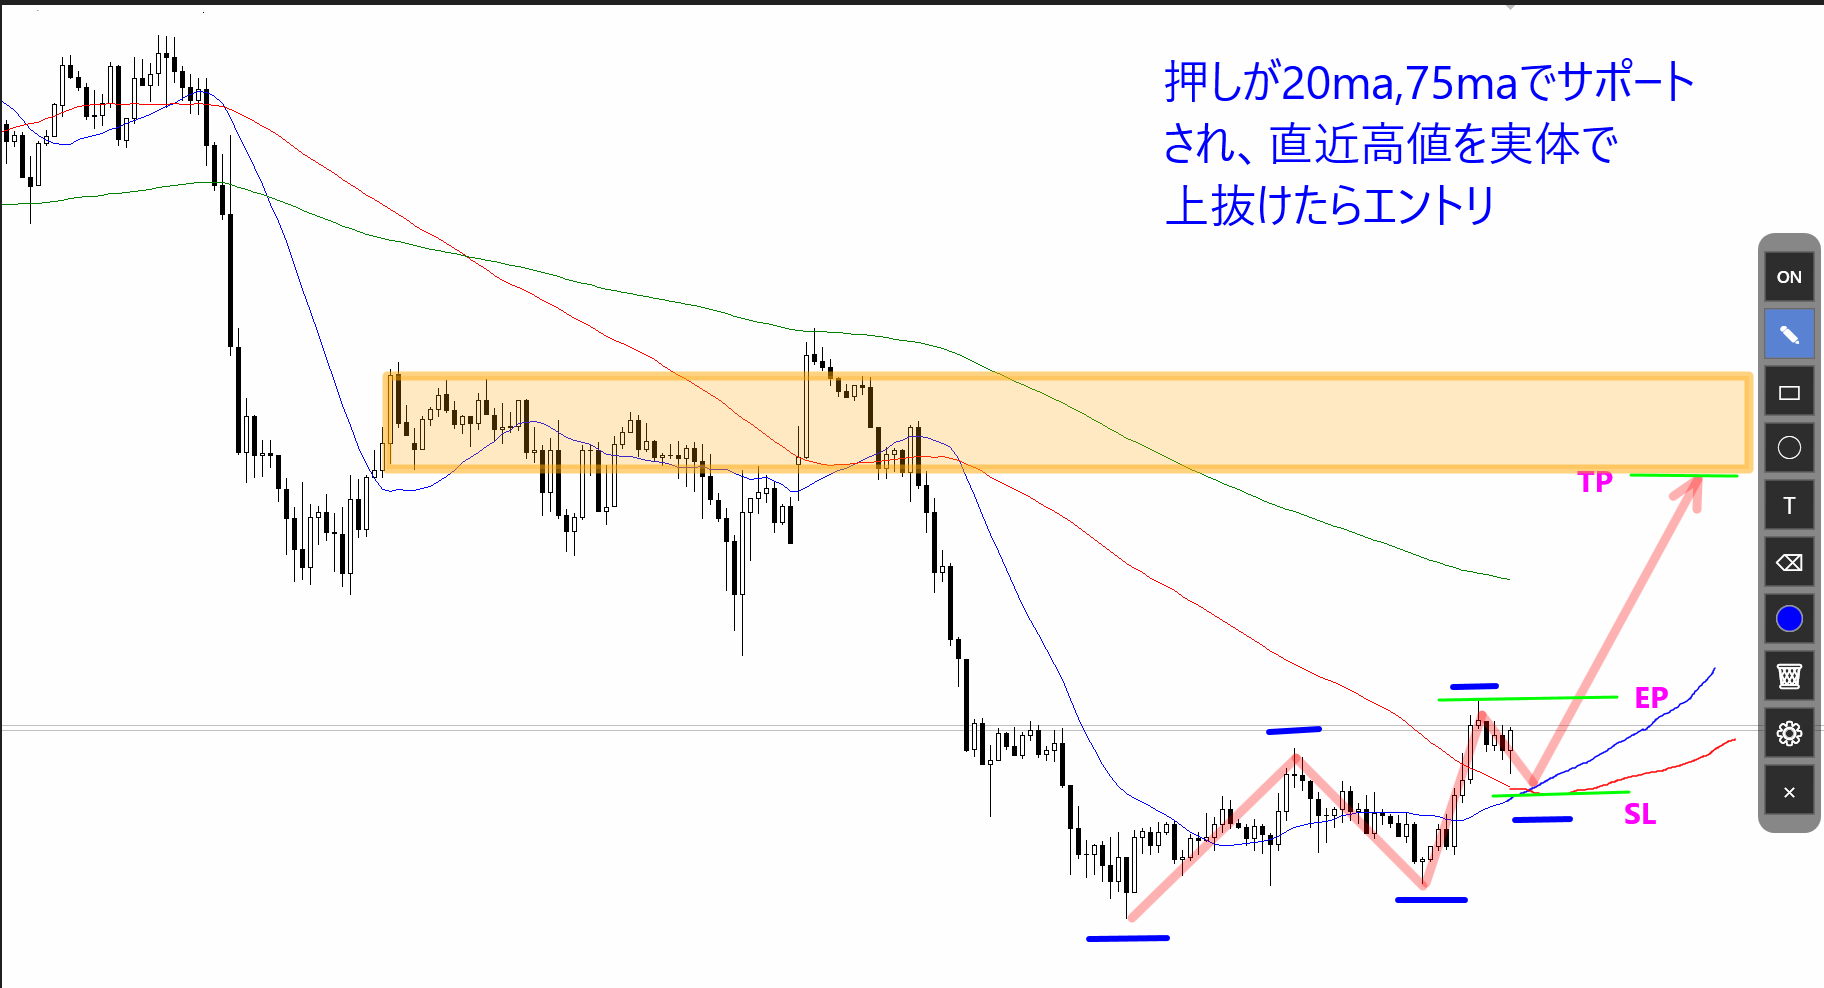
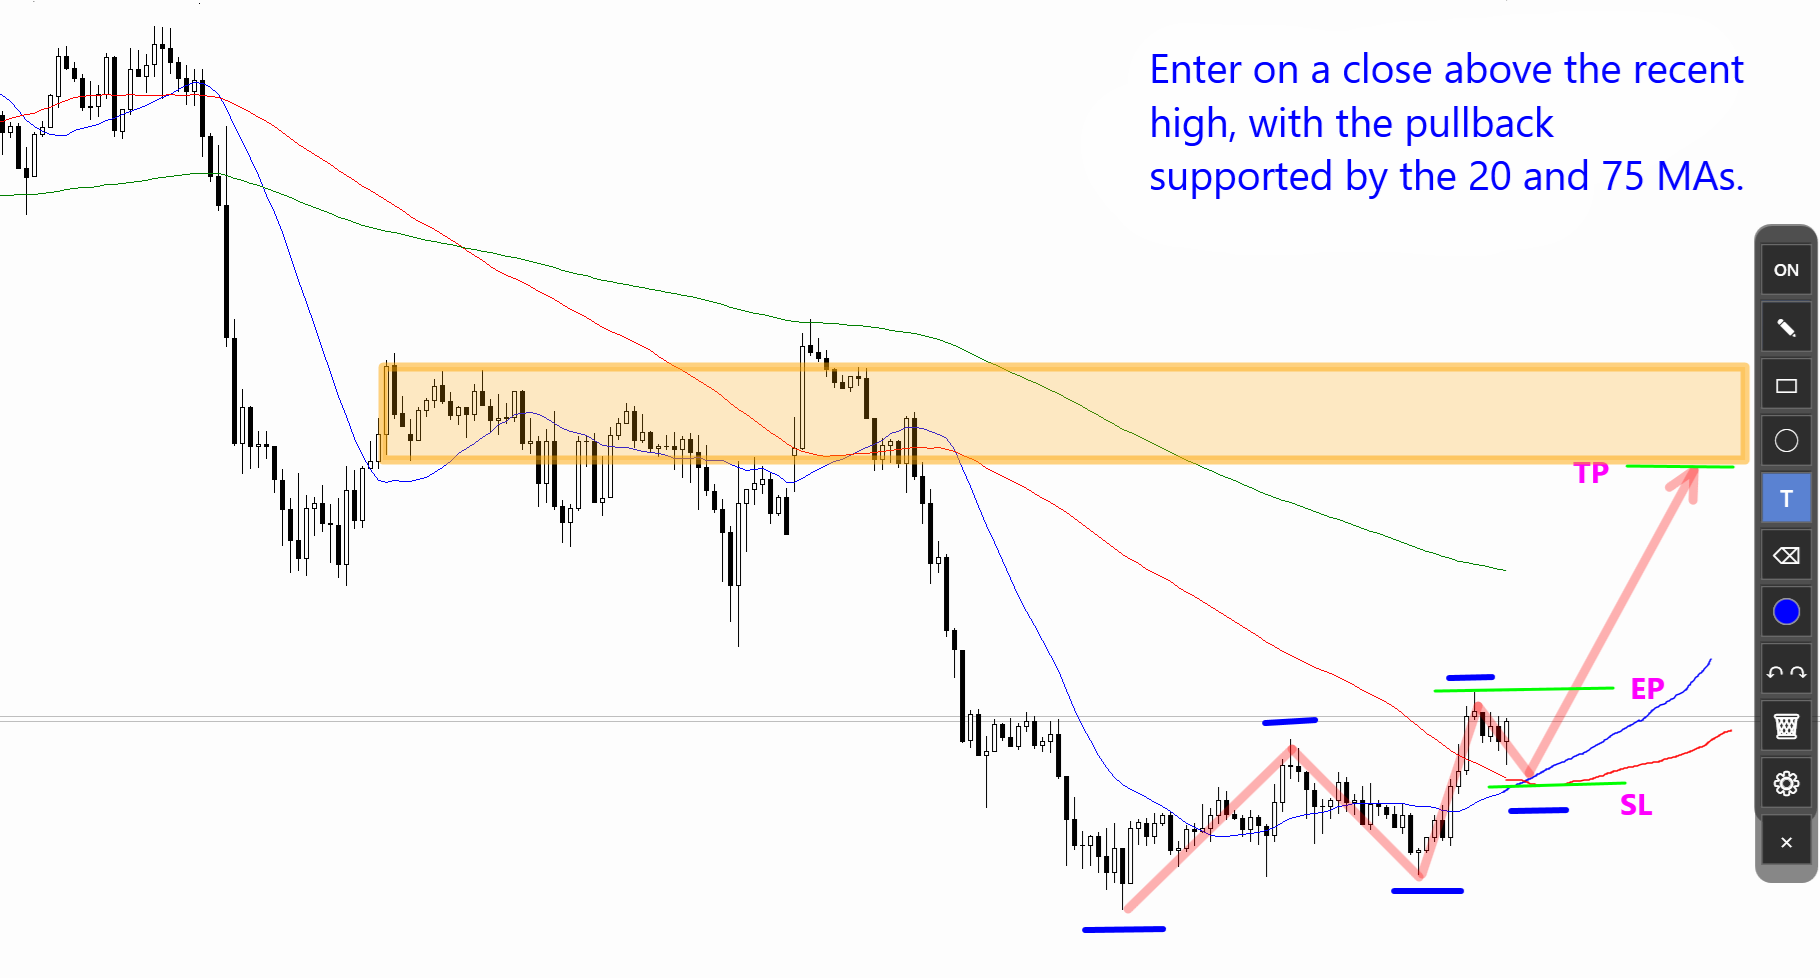
doc:add english landing page & images

diff --git a/docs/en/index.html b/docs/en/index.html
@@ -783,9 +783,9 @@
           <li>When you run the installer, Windows may show a SmartScreen protection screen. If it appears, click the details link, then click the run button.</li>
         </ol>
         <figure class="install-shot">
-          <a href="../images/PC保護画面_説明追記.png" target="_blank" rel="noopener noreferrer">
+          <a href="../images/PC_Protected_dialog_with_annotations.png" target="_blank" rel="noopener noreferrer">
             <img
-              src="../images/PC保護画面_説明追記.png"
+              src="../images/PC_Protected_dialog_with_annotations.png"
               alt="How to proceed when the Windows SmartScreen protection screen appears"
             />
           </a>
